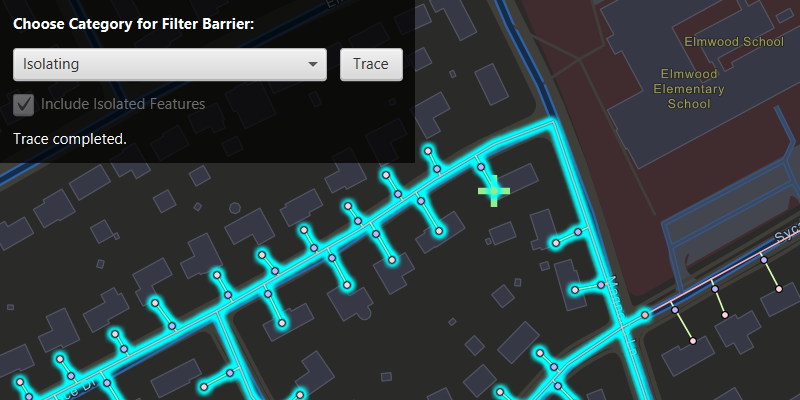
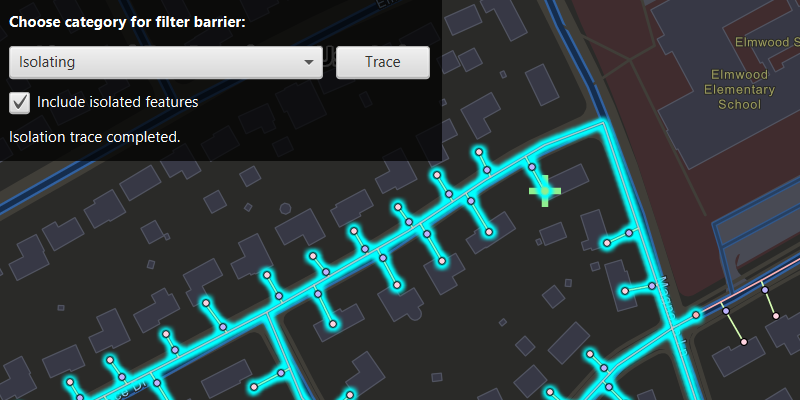
increase trace button width

diff --git a/utility_network/perform-valve-isolation-trace/src/main/resources/perform_valve_isolation_trace/style.css b/utility_network/perform-valve-isolation-trace/src/main/resources/perform_valve_isolation_trace/style.css
@@ -21,7 +21,7 @@ ComboBox {
 }
 
 Button {
--fx-min-width: 50;
+-fx-min-width: 75;
 }
 
 CheckBox {
